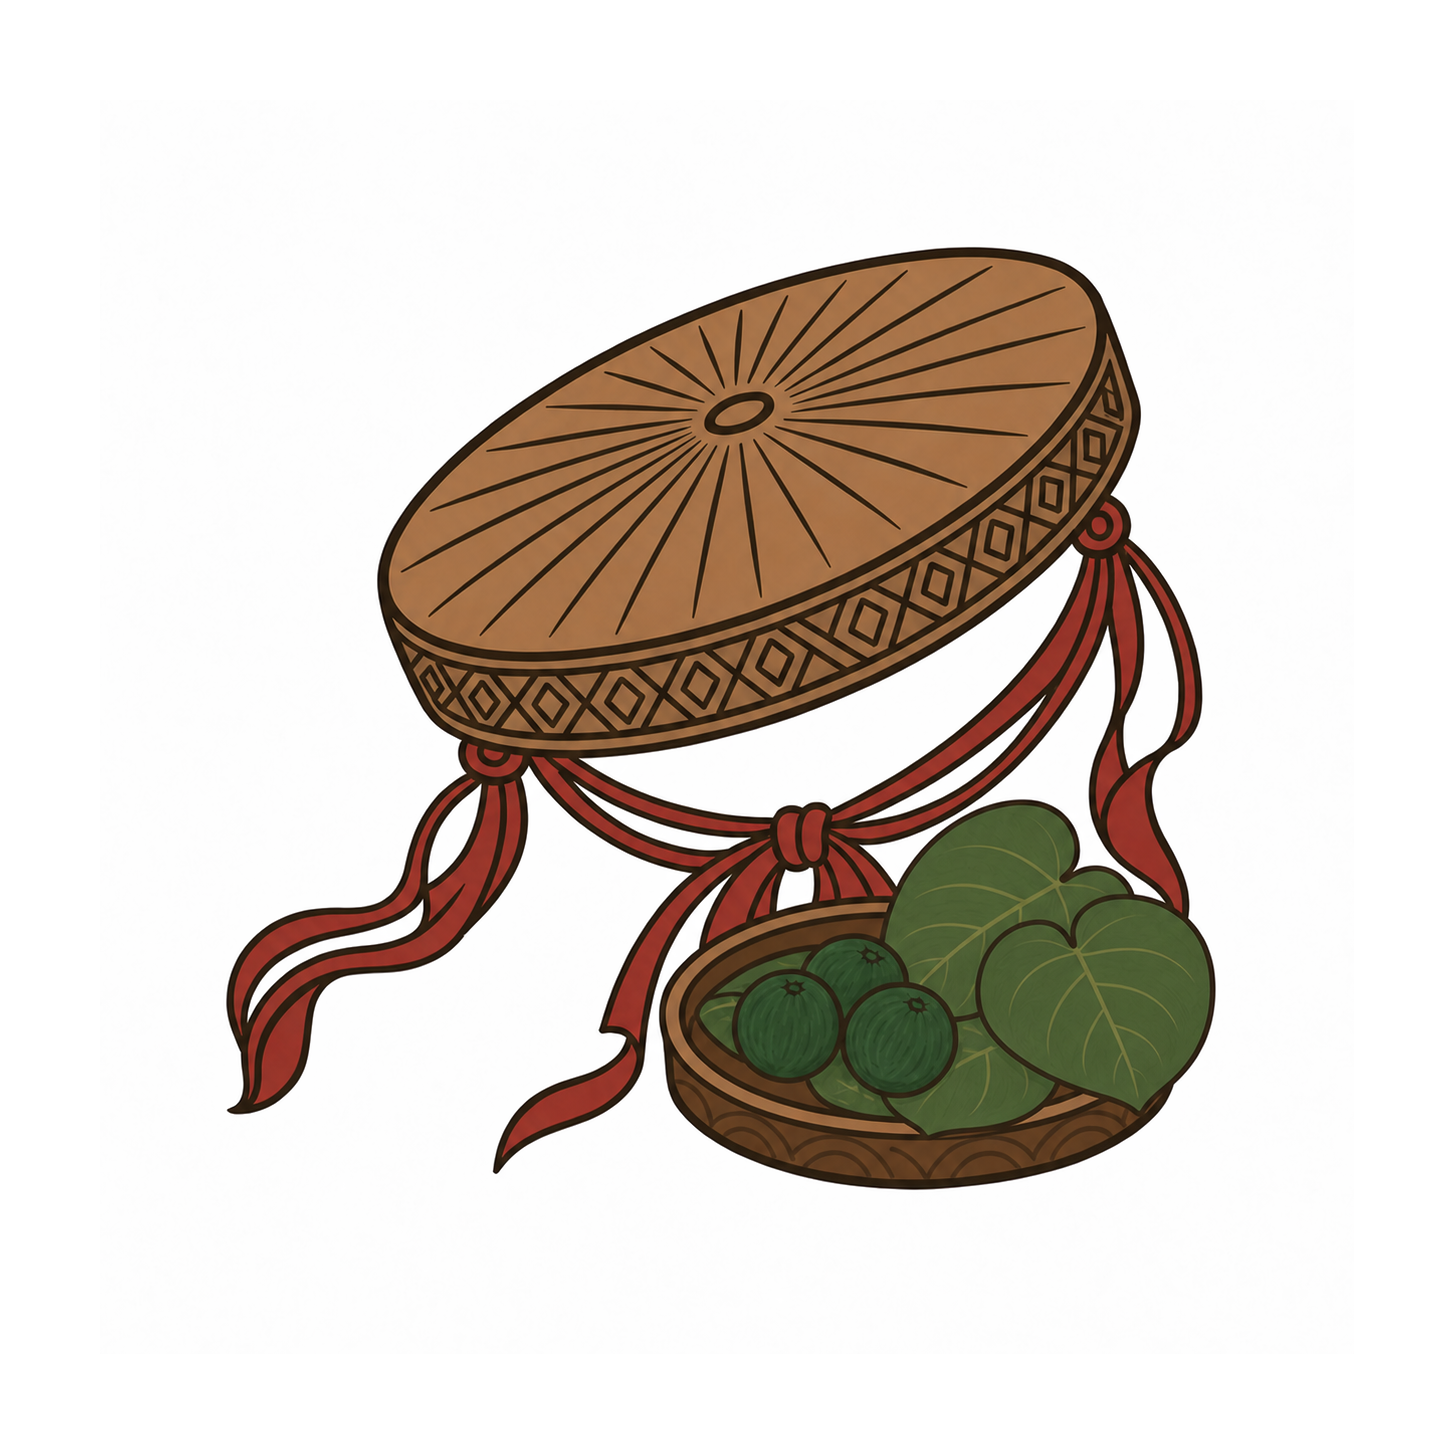
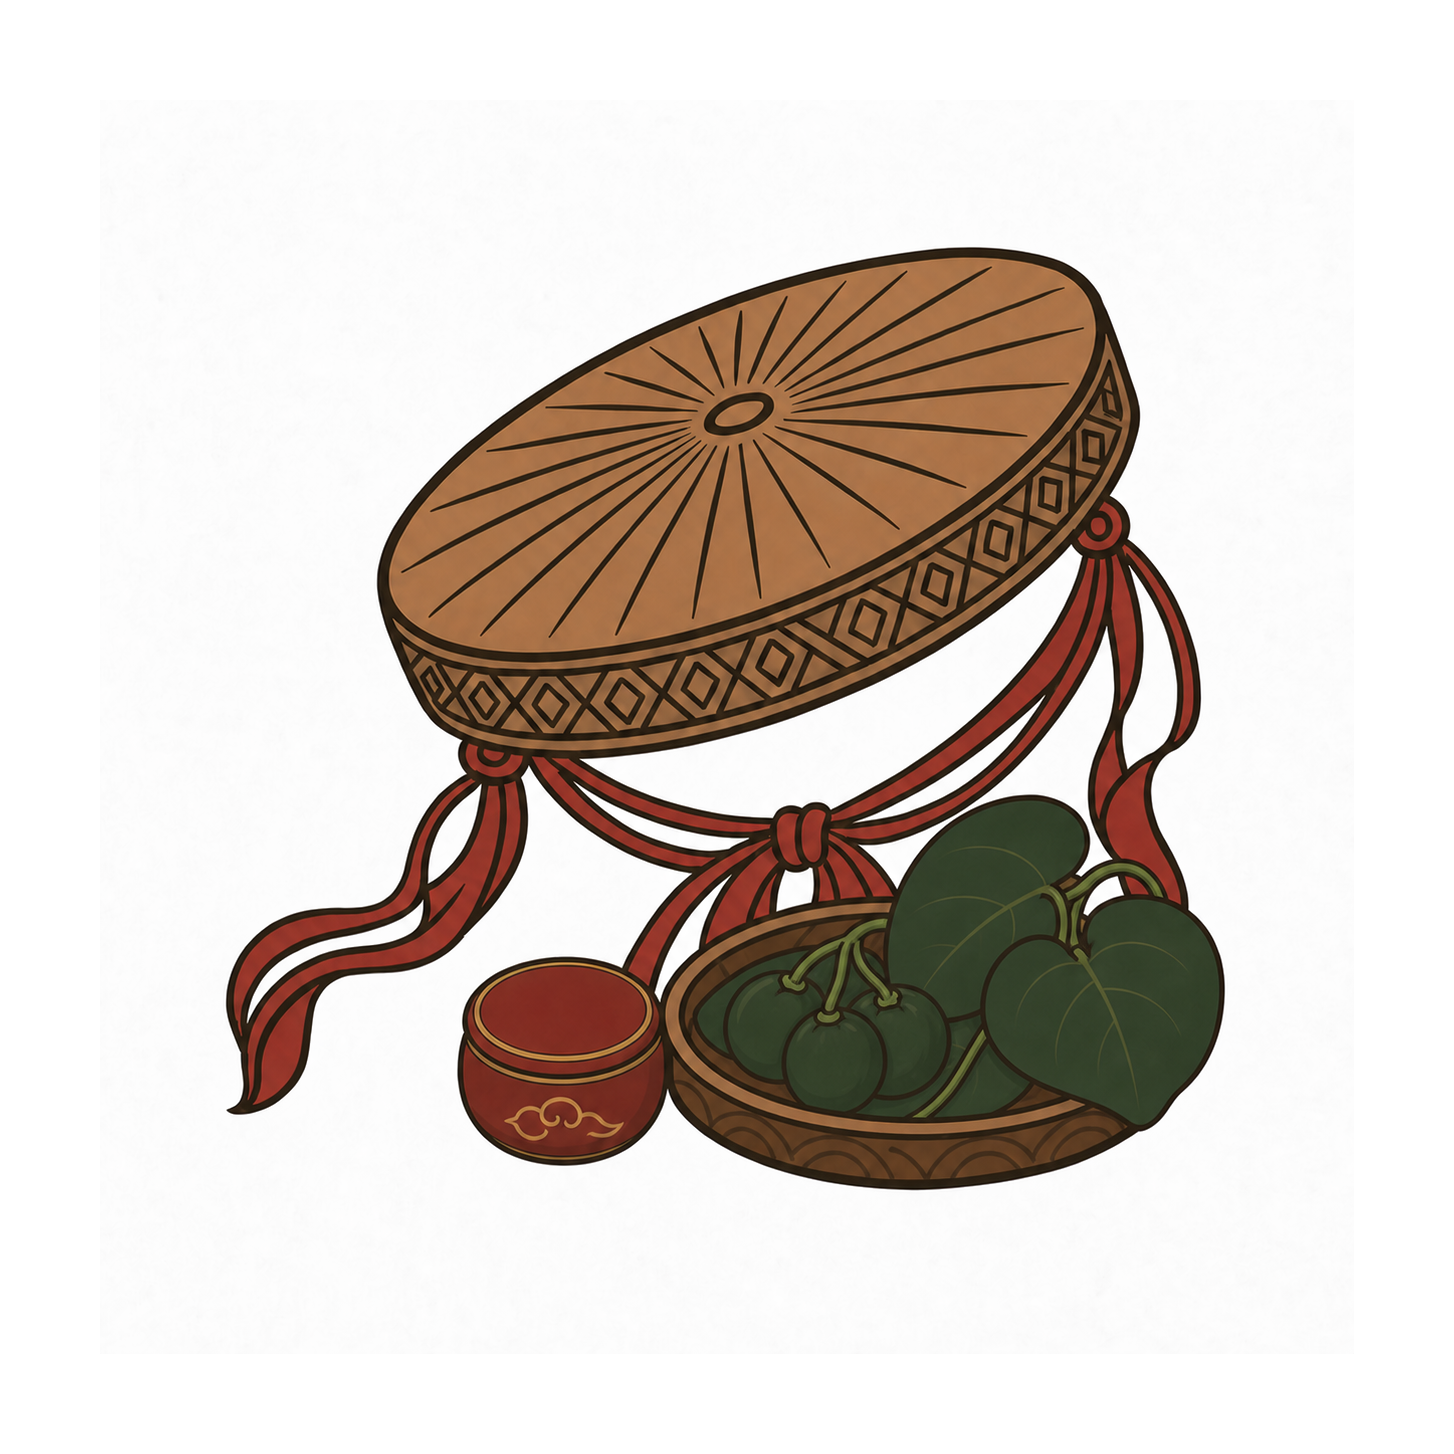
chore: cap nhat chi tiet nghi le cuoi

diff --git a/src/lib/motifs/danhSach.ts b/src/lib/motifs/danhSach.ts
@@ -350,6 +350,12 @@ export const DANH_SACH_HOA_TIET: MucHoaTiet[] = [
     "nhan": "bo am tra cuoi 02"
   },
   {
+    "id": "primary-decor/wedding-ritual/cap-quat-giay-day-do-01",
+    "tep": "primary-decor/wedding-ritual/cap-quat-giay-day-do-01.png",
+    "nhom": "Nghi lễ cưới",
+    "nhan": "cap quat giay day do 01"
+  },
+  {
     "id": "primary-decor/wedding-ritual/hai-chen-tra-chu-hy-01",
     "tep": "primary-decor/wedding-ritual/hai-chen-tra-chu-hy-01.png",
     "nhom": "Nghi lễ cưới",
@@ -402,6 +408,24 @@ export const DANH_SACH_HOA_TIET: MucHoaTiet[] = [
     "tep": "primary-decor/wedding-ritual/non-quai-thao-trau-cau-01.png",
     "nhom": "Nghi lễ cưới",
     "nhan": "non quai thao trau cau 01"
+  },
+  {
+    "id": "primary-decor/wedding-ritual/quat-giay-chu-hy-01",
+    "tep": "primary-decor/wedding-ritual/quat-giay-chu-hy-01.png",
+    "nhom": "Nghi lễ cưới",
+    "nhan": "quat giay chu hy 01"
+  },
+  {
+    "id": "primary-decor/wedding-ritual/quat-giay-do-chu-hy-vang-01",
+    "tep": "primary-decor/wedding-ritual/quat-giay-do-chu-hy-vang-01.png",
+    "nhom": "Nghi lễ cưới",
+    "nhan": "quat giay do chu hy vang 01"
+  },
+  {
+    "id": "primary-decor/wedding-ritual/quat-giay-doi-chen-tra-01",
+    "tep": "primary-decor/wedding-ritual/quat-giay-doi-chen-tra-01.png",
+    "nhom": "Nghi lễ cưới",
+    "nhan": "quat giay doi chen tra 01"
   },
   {
     "id": "primary-decor/wedding-ritual/trap-an-hoi-tron-01",
